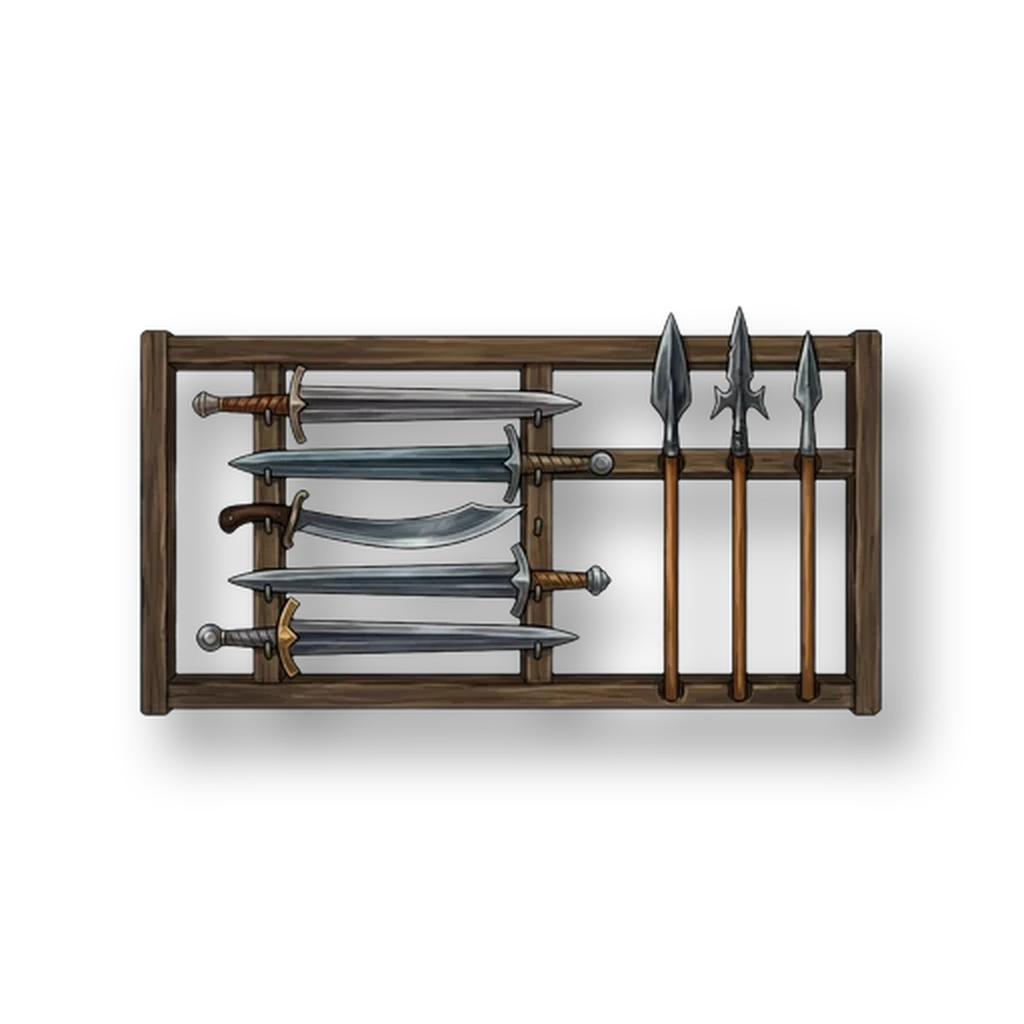
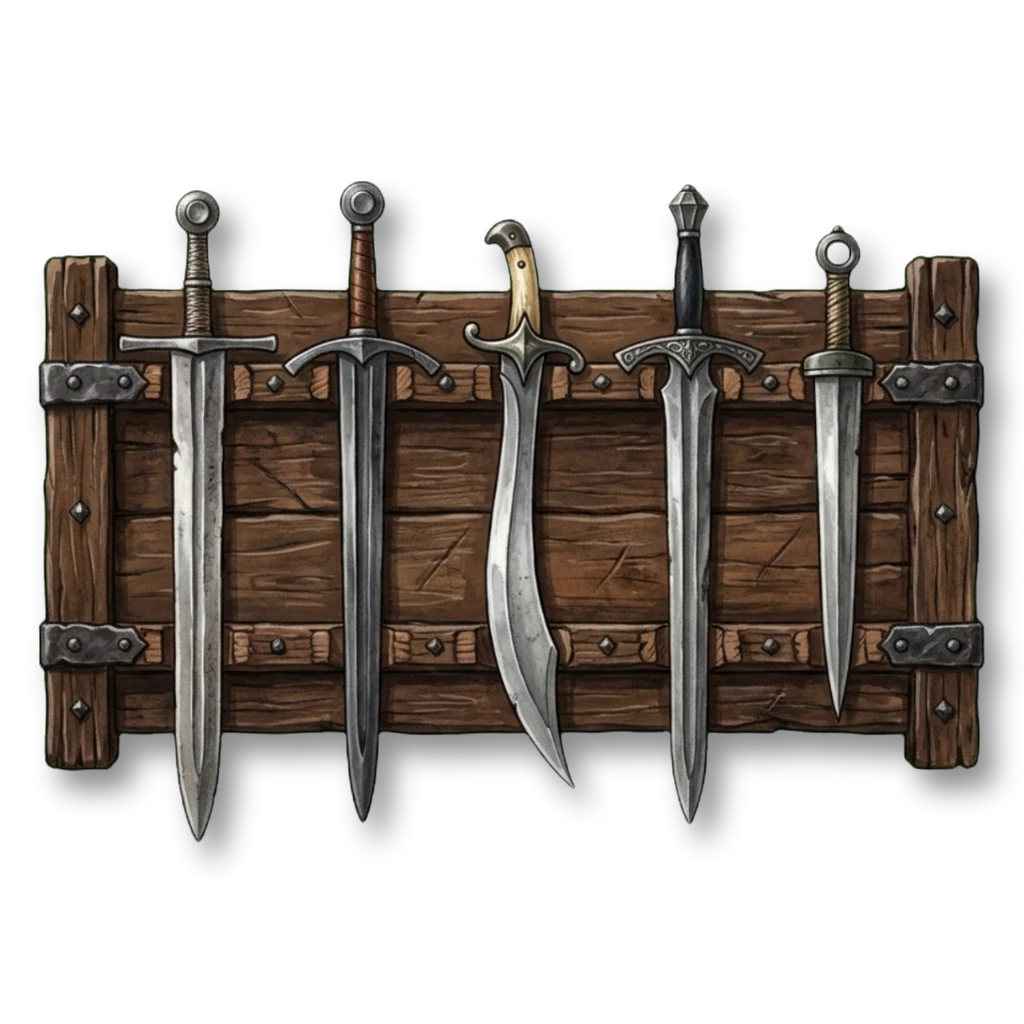
Шторка вариантов на полке и шесть стоек с оружием
Варианты одного предмета лежат одной миниатюрой с числом в уголке, щелчок
открывает шторку. Семья считается сама: у встроенных по таблице, у паков и
папок по имени без хвоста варианта. Стойки из Gemini: мечи, копья, топоры,
булавы, луки и разное.

diff --git a/src/app.rs b/src/app.rs
@@ -332,6 +332,11 @@ pub struct App {
     pub roof_view: RoofView,
     roof_from: Option<(i32, i32)>,
     tap_from: Option<Pos2>,
+    groups: Vec<Vec<usize>>,
+    /// Открытая шторка: индексы вариантов и миниатюра, над которой она висит.
+    pub drawer: Option<(Vec<usize>, Rect)>,
+    drawer_frame: u64,
+    family_pick: std::collections::HashMap<String, String>,
     shelf_rows: u32,
     pub fly: Option<usize>,
     fly_rect: Rect,
@@ -478,6 +483,10 @@ impl App {
             roof_view: RoofView::Auto,
             roof_from: None,
             tap_from: None,
+            groups: Vec::new(),
+            drawer: None,
+            drawer_frame: 0,
+            family_pick: Default::default(),
             shelf_rows: 1,
             fly: None,
             fly_rect: Rect::NOTHING,
@@ -1355,6 +1364,8 @@ impl App {
         let key = (self.browse, self.query.clone(), self.library.assets.len());
         if key != self.filter_key {
             self.filtered = self.library.filter(self.browse, &self.query);
+            self.groups = self.library.group(&self.filtered);
+            self.drawer = None;
             self.filter_key = key;
         }
         &self.filtered
@@ -2377,6 +2388,41 @@ impl App {
         });
     }
 
+    /// Шторка вариантов над миниатюрой семьи — как у эмодзи с оттенками.
+    fn variant_drawer(&mut self, ctx: &egui::Context) -> Option<String> {
+        let (group, rect) = self.drawer.clone()?;
+        const SIZE: f32 = 96.0;
+        const IN_ROW: usize = 6;
+        let mut picked = None;
+        let area = egui::Area::new(egui::Id::new("variants")).order(egui::Order::Foreground).pivot(egui::Align2::LEFT_BOTTOM).fixed_pos(rect.left_top() - vec2(0.0, 6.0)).show(ctx, |ui| {
+            egui::Frame::popup(ui.style()).show(ui, |ui| {
+                for row in group.chunks(IN_ROW) {
+                    ui.horizontal(|ui| {
+                        for &i in row {
+                            let (key, name) = (self.library.assets[i].key.clone(), self.library.assets[i].name.clone());
+                            let (r, resp) = ui.allocate_exact_size(vec2(SIZE, SIZE), Sense::click());
+                            self.thumb(ui.painter(), r, &key);
+                            if resp.hovered() {
+                                ui.painter().rect_stroke(r, 3.0, Stroke::new(2.0, ACCENT), egui::StrokeKind::Outside);
+                            }
+                            if resp.on_hover_text(name).clicked() {
+                                picked = Some(key);
+                            }
+                        }
+                    });
+                }
+            });
+        });
+        if let Some(key) = &picked {
+            let family = self.library.assets[group[0]].family.clone();
+            self.family_pick.insert(family, key.clone());
+            self.drawer = None;
+        } else if self.drawer_frame != self.frame && area.response.clicked_elsewhere() {
+            self.drawer = None;
+        }
+        picked
+    }
+
     fn browser(&mut self, ui: &mut egui::Ui) {
         ui.horizontal(|ui| {
             ui.add(egui::TextEdit::singleline(&mut self.query).hint_text("Поиск").desired_width(180.0));
@@ -2419,9 +2465,10 @@ impl App {
             ui.weak("Пусто. Подключите папку с картинками или пак Dungeondraft: кнопка «Источники».");
         }
 
-        let list = self.filtered().to_vec();
+        self.filtered();
+        let groups = self.groups.clone();
         let cols = ((ui.available_width() + 4.0) / (THUMB + 4.0)).floor().max(1.0) as usize;
-        let rows = list.len().div_ceil(cols);
+        let rows = groups.len().div_ceil(cols);
         let current = match self.browse {
             Kind::Floor => match self.map.materials.get(self.material).map(|m| &m.paint) {
                 Some(Paint::Texture(k)) => Some(k.clone()),
@@ -2439,21 +2486,36 @@ impl App {
             }),
         };
         let mut chosen: Option<(String, bool)> = None;
+        let mut open_family = None;
         egui::ScrollArea::vertical().id_salt("assets").max_height(ui.available_height()).auto_shrink([false, false]).show_rows(ui, THUMB + 4.0, rows, |ui, range| {
             for row in range {
                 ui.horizontal(|ui| {
                     ui.spacing_mut().item_spacing.x = 4.0;
-                    for &i in list.iter().skip(row * cols).take(cols) {
+                    for group in groups.iter().skip(row * cols).take(cols) {
+                        // Видна та из семьи, что выбрана или бралась последней.
+                        let family = self.library.assets[group[0]].family.clone();
+                        let has = |k: &str| group.iter().copied().find(|&i| self.library.assets[i].key == k);
+                        let i = current.as_deref().and_then(has).or_else(|| self.family_pick.get(&family).and_then(|k| has(k))).unwrap_or(group[0]);
                         let asset = &self.library.assets[i];
                         let (key, tip) = (asset.key.clone(), format!("{}\n{}", asset.name, asset.folder));
                         let (rect, resp) = ui.allocate_exact_size(vec2(THUMB, THUMB), Sense::click());
                         self.thumb(ui.painter(), rect, &key);
-                        if current.as_deref() == Some(key.as_str()) {
+                        if group.iter().any(|&g| current.as_deref() == Some(self.library.assets[g].key.as_str())) {
                             ui.painter().rect_stroke(rect, 3.0, Stroke::new(2.0, ACCENT), egui::StrokeKind::Outside);
+                        }
+                        if group.len() > 1 {
+                            // Уголок с числом вариантов.
+                            let c = rect.right_bottom();
+                            ui.painter().add(Shape::convex_polygon(vec![c, c - vec2(0.0, 26.0), c - vec2(26.0, 0.0)], ACCENT, Stroke::NONE));
+                            ui.painter().text(c - vec2(7.0, 8.0), egui::Align2::CENTER_CENTER, group.len().to_string(), egui::FontId::proportional(11.0), ON_ACCENT);
                         }
                         let resp = resp.on_hover_text(tip);
                         if resp.clicked() {
-                            chosen = Some((key.clone(), false));
+                            if group.len() > 1 {
+                                open_family = Some((group.clone(), rect));
+                            } else {
+                                chosen = Some((key.clone(), false));
+                            }
                         }
                         if matches!(self.browse, Kind::Floor | Kind::Wall) {
                             resp.context_menu(|ui| {
@@ -2472,6 +2534,14 @@ impl App {
                 });
             }
         });
+        if let Some((group, rect)) = open_family {
+            let same = self.drawer.as_ref().is_some_and(|d| d.0 == group);
+            self.drawer = if same { None } else { Some((group, rect)) };
+            self.drawer_frame = self.frame;
+        }
+        if let Some(key) = self.variant_drawer(ui.ctx()) {
+            chosen = Some((key, false));
+        }
         if let Some((key, as_floor)) = chosen {
             match self.browse {
                 _ if as_floor => self.use_floor_texture(&key),

diff --git a/src/library.rs b/src/library.rs
@@ -59,7 +59,7 @@ pub const BUILTIN_TEXTURES: [(&str, &str, bool, &[u8]); 27] = [
 
 /// Объекты, зашитые в программу: имя, подпись, размер в клетках, байты. Картинка —
 /// 256 точек на клетку с прозрачным полем и тенью (`tools/cutout.py`).
-pub const BUILTIN_OBJECTS: [(&str, &str, [f32; 2], &[u8]); 35] = [
+pub const BUILTIN_OBJECTS: [(&str, &str, [f32; 2], &[u8]); 40] = [
     ("chair", "Стул", [1.0, 1.0], include_bytes!("../assets/builtin/objects/chair.webp")),
     ("stool", "Табурет", [1.0, 1.0], include_bytes!("../assets/builtin/objects/stool.webp")),
     ("table", "Стол", [2.0, 1.0], include_bytes!("../assets/builtin/objects/table.webp")),
@@ -85,7 +85,12 @@ pub const BUILTIN_OBJECTS: [(&str, &str, [f32; 2], &[u8]); 35] = [
     ("anvil", "Наковальня", [1.0, 1.0], include_bytes!("../assets/builtin/objects/anvil.webp")),
     ("campfire", "Костёр", [1.0, 1.0], include_bytes!("../assets/builtin/objects/campfire.webp")),
     ("brazier", "Жаровня", [1.0, 1.0], include_bytes!("../assets/builtin/objects/brazier.webp")),
-    ("weapon_rack", "Стойка с оружием", [2.0, 2.0], include_bytes!("../assets/builtin/objects/weapon_rack.webp")),
+    ("weapon_rack", "Стойка с мечами", [2.0, 2.0], include_bytes!("../assets/builtin/objects/weapon_rack.webp")),
+    ("weapon_rack_spears", "Стойка с копьями", [2.0, 2.0], include_bytes!("../assets/builtin/objects/weapon_rack_spears.webp")),
+    ("weapon_rack_axes", "Стойка с топорами", [2.0, 2.0], include_bytes!("../assets/builtin/objects/weapon_rack_axes.webp")),
+    ("weapon_rack_maces", "Стойка с булавами", [2.0, 2.0], include_bytes!("../assets/builtin/objects/weapon_rack_maces.webp")),
+    ("weapon_rack_bows", "Стойка с луками", [2.0, 2.0], include_bytes!("../assets/builtin/objects/weapon_rack_bows.webp")),
+    ("weapon_rack_mixed", "Стойка с разным оружием", [2.0, 2.0], include_bytes!("../assets/builtin/objects/weapon_rack_mixed.webp")),
     ("altar", "Алтарь", [1.0, 1.0], include_bytes!("../assets/builtin/objects/altar.webp")),
     ("statue", "Статуя", [1.0, 1.0], include_bytes!("../assets/builtin/objects/statue.webp")),
     ("pillar", "Колонна", [1.0, 1.0], include_bytes!("../assets/builtin/objects/pillar.webp")),
@@ -244,6 +249,8 @@ pub struct Asset {
     pub kind: Kind,
     /// Для поиска: имя и папка в нижнем регистре.
     search: String,
+    /// Варианты одного предмета лежат на полке одной миниатюрой.
+    pub family: String,
 }
 
 impl Asset {
@@ -251,12 +258,40 @@ impl Asset {
         let (folder, file) = inner.rsplit_once(['/', '\\']).unwrap_or(("", inner));
         let name = file.rsplit_once('.').map_or(file, |(n, _)| n).to_owned();
         let search = format!("{} {}", name, folder).to_lowercase().replace('_', " ");
-        Self { key, name, folder: folder.to_owned(), kind, search }
+        let family = family_of(&key, &name, folder);
+        Self { key, name, folder: folder.to_owned(), kind, search, family }
     }
 
     pub fn matches(&self, words: &[String]) -> bool {
         words.iter().all(|w| self.search.contains(w.as_str()))
     }
+}
+
+/// Встроенные предметы с вариантами: всё, что начинается с этих имён, — одна семья.
+const BUILTIN_FAMILIES: [&str; 11] = ["chest", "weapon_rack", "door", "window", "rug", "bed", "table", "roof_clay", "roof_slate", "frame_wood", "frame_stone"];
+
+/// Семья ассета. У встроенных — по таблице. У паков и папок — имя без хвоста, который
+/// отличает варианты: размера, номера, буквы (`Barrel_Wood_A2_1x1` → `barrel_wood`).
+/// Пусто после чистки — сам по себе.
+pub fn family_of(key: &str, name: &str, folder: &str) -> String {
+    if let Some(id) = key.strip_prefix(BUILTIN) {
+        return BUILTIN_FAMILIES.iter().find(|f| id.starts_with(**f)).map_or_else(|| id.to_owned(), |f| (*f).to_owned());
+    }
+    let lower = name.to_lowercase();
+    let mut words: Vec<&str> = lower.split(['_', '-', ' ']).filter(|w| !w.is_empty()).collect();
+    while words.last().is_some_and(|w| is_variant_word(w)) {
+        words.pop();
+    }
+    if words.is_empty() { format!("{folder}/{lower}") } else { format!("{folder}/{}", words.join("_")) }
+}
+
+/// `2`, `a`, `a2`, `v3`, `2x1` — хвост варианта, а не часть названия.
+fn is_variant_word(w: &str) -> bool {
+    let digits = w.trim_start_matches(|c: char| c.is_alphabetic());
+    let letters = w.chars().count() - digits.chars().count();
+    let number = !digits.is_empty() && digits.chars().all(|c| c.is_ascii_digit());
+    let size = w.split_once('x').is_some_and(|(a, b)| !a.is_empty() && !b.is_empty() && (a.to_owned() + b).chars().all(|c| c.is_ascii_digit()));
+    size || (letters <= 1 && (number || digits.is_empty()))
 }
 
 /// Размер в клетках по имени ассета FA: `Oak_Tree_A_3x3.webp` → 3×3.
@@ -706,10 +741,41 @@ impl Library {
         let words: Vec<String> = query.to_lowercase().split_whitespace().map(str::to_owned).collect();
         self.assets.iter().enumerate().filter(|(_, a)| a.kind == kind && a.matches(&words)).map(|(i, _)| i).collect()
     }
+
+    /// Найденное по семьям: порядок — по первому представителю семьи.
+    pub fn group(&self, found: &[usize]) -> Vec<Vec<usize>> {
+        let mut at: std::collections::HashMap<&str, usize> = std::collections::HashMap::new();
+        let mut groups: Vec<Vec<usize>> = Vec::new();
+        for &i in found {
+            match at.entry(self.assets[i].family.as_str()) {
+                std::collections::hash_map::Entry::Occupied(e) => groups[*e.get()].push(i),
+                std::collections::hash_map::Entry::Vacant(e) => {
+                    e.insert(groups.len());
+                    groups.push(vec![i]);
+                }
+            }
+        }
+        groups
+    }
 }
 
 #[cfg(test)]
 mod tests {
+    #[test]
+    fn variants_fall_into_one_family() {
+        let fam = |name: &str| super::family_of("pack:x", name, "objects");
+        assert_eq!(fam("Barrel_Wood_A2_1x1"), fam("Barrel_Wood_B_1x1"));
+        assert_eq!(fam("Barrel_Wood_3"), fam("Barrel_Wood_B_1x1"));
+        assert_ne!(fam("Barrel_Wood_A"), fam("Barrel_Iron_A"));
+        assert_eq!(super::family_of("builtin:chest_empty", "", ""), "chest");
+        assert_eq!(super::family_of("builtin:chest", "", ""), "chest");
+        assert_eq!(super::family_of("builtin:barrel", "", ""), "barrel");
+        let lib = super::Library::default();
+        let found = lib.filter(super::Kind::Object, "сундук");
+        assert_eq!(lib.group(&found).len(), 1);
+        assert_eq!(found.len(), 3);
+    }
+
     #[test]
     fn builtin_objects_decode_with_transparency_and_their_size() {
         for (id, _, size, bytes) in super::BUILTIN_OBJECTS {

diff --git a/src/selftest.rs b/src/selftest.rs
@@ -799,7 +799,34 @@ impl SelfTest {
                 self.click(egui::pos2(40.0, app.canvas.top() + h * 1.5));
                 self.resume_at = now + CLICK_GAP;
             }
-            69 => self.check("ячейка вернула последний режим", app.tool == Tool::Floor, &format!("{:?}", app.tool)),
+            69 => {
+                self.check("ячейка вернула последний режим", app.tool == Tool::Floor, &format!("{:?}", app.tool));
+                app.set_tool(Tool::Object);
+                app.query = "сундук".into();
+                self.resume_at = now + 0.3;
+            }
+            70 => {
+                // Три сундука лежат на полке одной миниатюрой, щелчок открывает шторку.
+                self.click(egui::pos2(145.0, app.canvas.bottom() + 70.0));
+                self.resume_at = now + CLICK_GAP;
+            }
+            71 => {
+                let n = app.drawer.as_ref().map_or(0, |d| d.0.len());
+                self.check("шторка показала варианты сундука", n == 3, &format!("{n}"));
+                self.snap(ctx, "шторка вариантов");
+            }
+            72 => {
+                if let Some((_, r)) = app.drawer.clone() {
+                    // Вторая миниатюра шторки.
+                    self.click(egui::pos2(r.left() + 150.0, r.top() - 60.0));
+                }
+                self.resume_at = now + CLICK_GAP;
+            }
+            73 => {
+                let got = app.object_asset.clone().unwrap_or_default();
+                self.check("вариант из шторки выбран, шторка закрылась", got.contains("chest") && app.drawer.is_none(), &got);
+                app.query.clear();
+            }
             _ => return false,
         }
         true
